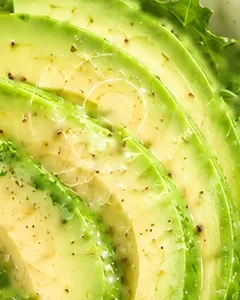
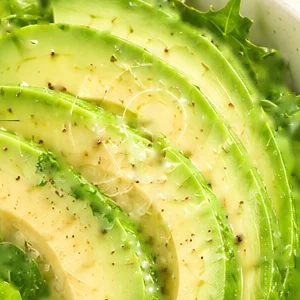
32c-i: from the walk on Kd's phone: the plate fills as meals come, day numbers whole, the week's bars lit
- Android kept a part's first cut-out under its name, so the plate stayed as it was before the
  next meal: each cut-out is named by how far its food reaches.
- Sharper chicken, quinoa and avocado, cut at their full size.
- On an opened folding phone a day's plate read "1" for 14: its number stays on one line.
- The Week tab's bars as drawn: rounded, lit from the top in their colour, glowing; the target's
  number at its line.

diff --git a/apps/mobile/src/screens/food/FoodWeek.tsx b/apps/mobile/src/screens/food/FoodWeek.tsx
@@ -4,7 +4,7 @@ import { foodWeekResponseSchema, type FoodWeekFigure, type FoodWeekResponse } fr
 import { Button } from "../../look/Button";
 import { Card } from "../../look/Card";
 import { Chip } from "../../look/Chip";
-import { colours, type ColourName } from "../../look/colours";
+import { colours, weekBarGlow, weekBarLight, type ColourName } from "../../look/colours";
 import { Icon } from "../../look/Icon";
 import { Txt } from "../../look/Txt";
 import { SoftBar } from "../../look/Waiting";
@@ -191,6 +191,14 @@ function barColour(bar: Bar): ColourName {
   return bar.band === null ? "textSoft" : BAND_COLOUR[bar.band];
 }
 
+/** A bar in its colour; the three judged colours lit from the top and glowing (32c-i). */
+function barLight(colour: ColourName) {
+  if (colour === "good" || colour === "blue" || colour === "orange") {
+    return { backgroundColor: colours[colour], experimental_backgroundImage: weekBarLight[colour], boxShadow: weekBarGlow[colour] };
+  }
+  return { backgroundColor: colours[colour] };
+}
+
 /** `line`: today's target, drawn once straight across the bars (null while there is none). */
 function Chart({ bars, figure, month, line }: { bars: readonly Bar[]; figure: FoodWeekFigure; month: boolean; line: number | null }) {
   const top = chartTop(bars);
@@ -207,12 +215,17 @@ function Chart({ bars, figure, month, line }: { bars: readonly Bar[]; figure: Fo
                     ~
                   </Txt>
                 ) : null}
-                <View style={[styles.bar, { height: height(bar.value), backgroundColor: colours[barColour(bar)] }]} />
+                <View style={[styles.bar, month ? styles.thinBar : null, barLight(barColour(bar)), { height: height(bar.value) }]} />
               </>
             )}
           </View>
         ))}
         {line === null ? null : <View pointerEvents="none" style={[styles.target, { bottom: height(line) }]} />}
+        {line === null ? null : (
+          <Txt kind="tiny" colour="textSoft" style={[styles.lineWords, { bottom: height(line) + 4 }]}>
+            {count(line)}
+          </Txt>
+        )}
       </View>
       <View style={styles.labels}>
         {bars.map((bar, i) => (
@@ -260,8 +273,10 @@ const styles = StyleSheet.create({
   // A date under a thin bar of the 30 days is wider than its bar, and is drawn across the bars beside it.
   date: { width: 32 },
   thin: { marginHorizontal: -2 },
-  bar: { borderTopLeftRadius: 6, borderTopRightRadius: 6 },
-  target: { position: "absolute", left: 0, right: 0, height: 2, borderRadius: 1, backgroundColor: colours.text },
+  bar: { marginHorizontal: 3, borderTopLeftRadius: 999, borderTopRightRadius: 999, borderBottomLeftRadius: 8, borderBottomRightRadius: 8 },
+  thinBar: { marginHorizontal: 0, borderTopLeftRadius: 4, borderTopRightRadius: 4, borderBottomLeftRadius: 2, borderBottomRightRadius: 2 },
+  target: { position: "absolute", left: 0, right: 0, height: 2, borderRadius: 1, backgroundColor: colours.textSoft },
+  lineWords: { position: "absolute", right: 0 },
   about: { textAlign: "center" },
   centre: { textAlign: "center" },
   legend: { flexDirection: "row", flexWrap: "wrap", columnGap: 14, rowGap: 6 },

diff --git a/apps/mobile/src/screens/food/MacroPlate.tsx b/apps/mobile/src/screens/food/MacroPlate.tsx
@@ -21,6 +21,10 @@ const HUB = 35;
 const INNER = 36;
 const OUTER = 82;
 
+/** A part's cut-out is named by how far its food reaches: Android keeps a cut-out's first shape under its
+ *  name, so a plate filled after it was first drawn would stay as it was (seen on Kd's phone, 32c-i). */
+const clipId = (part: string, plate: string, reach: number) => `${part}${plate}r${String(Math.round(reach * 10))}`;
+
 export interface PlateNumbers {
   kcal: number;
   proteinG: number;
@@ -52,11 +56,14 @@ export function MacroPlate({ goal, eaten, left }: { goal: PlateNumbers; eaten: P
                 <Stop offset="0" stopColor={colours.orangeLight} />
                 <Stop offset="1" stopColor={colours.calDeep} />
               </LinearGradient>
-              {PLATE_PARTS.map((p) => (
-                <ClipPath key={p.key} id={`${p.key}${id}`}>
-                  <Path d={partPath(C, C, p.from, p.from + PART_SWEEP, INNER, fillReach(plateShare(eaten?.[p.key] ?? null, goal[p.key]), INNER, OUTER))} />
-                </ClipPath>
-              ))}
+              {PLATE_PARTS.map((p) => {
+                const reach = fillReach(plateShare(eaten?.[p.key] ?? null, goal[p.key]), INNER, OUTER);
+                return (
+                  <ClipPath key={clipId(p.key, id, reach)} id={clipId(p.key, id, reach)}>
+                    <Path d={partPath(C, C, p.from, p.from + PART_SWEEP, INNER, reach)} />
+                  </ClipPath>
+                );
+              })}
             </Defs>
             <Circle cx={C} cy={C} r={C - 4} fill={`url(#rim${id})`} stroke={colours.plateEdge} strokeWidth={1} />
             <Path d={edgePath(C, C, 200, 290, 104)} stroke={colours.plateRimLight} strokeWidth={2} strokeLinecap="round" fill="none" />
@@ -84,7 +91,7 @@ export function MacroPlate({ goal, eaten, left }: { goal: PlateNumbers; eaten: P
                   <Path d={partPath(C, C, p.from, to, INNER, OUTER)} fill={colours.glass} stroke={colours[p.colour]} strokeOpacity={0.5} strokeWidth={1.2} strokeDasharray="3 3" />
                   {share > 0 ? (
                     <>
-                      <G clipPath={`url(#${p.key}${id})`}>
+                      <G clipPath={`url(#${clipId(p.key, id, reach)})`}>
                         <G transform={`translate(${String(C - OUTER)} ${String(C - OUTER)})`}>
                           <SvgImage href={pictures[p.picture]} width={OUTER * 2} height={OUTER * 2} preserveAspectRatio="xMidYMid slice" />
                         </G>

diff --git a/apps/mobile/src/look/colours.ts b/apps/mobile/src/look/colours.ts
@@ -133,6 +133,19 @@ export const lightGradient = `linear-gradient(to bottom, ${colours.light}, ${col
 export const signInGradient = `linear-gradient(to bottom, ${colours.signInTop}, ${colours.signInFoot})`;
 /** A chart's bar: light orange at its top running to orange at its foot (Progress, 35c-i). */
 export const barGradient = `linear-gradient(to bottom, ${colours.orangeLight}, ${colours.orange})`;
+/** The Week tab's bars (32c-i, Kd's drawing of 2026-11-14): each lit from its top in its own colour, and
+ *  glowing faintly: on target, under, over. */
+export const weekBarLight = {
+  good: `linear-gradient(to bottom, ${colours.goodText}, ${colours.good})`,
+  blue: "linear-gradient(to bottom, #93c5fd, #3b82f6)",
+  orange: `linear-gradient(to bottom, ${colours.orangeLight}, ${colours.orangeDeep})`,
+} as const;
+export const weekBarGlow = {
+  good: "0 0 14px rgba(34,197,94,0.35)",
+  blue: "0 0 14px rgba(96,165,250,0.35)",
+  orange: "0 0 14px rgba(255,138,31,0.4)",
+} as const;
+
 /** Across a box with a chalk drawing on its right: the box's own colour under the words, the drawing
  *  showing through on the right (Progress, 35c-i). */
 export const artShade =

diff --git a/apps/mobile/src/screens/food/DayPlates.tsx b/apps/mobile/src/screens/food/DayPlates.tsx
@@ -69,7 +69,7 @@ export function DayPlate({ date, size, bar, picked, later }: { date: number; siz
 function Number({ words, size, colour }: { words: string; size: number; colour: ColourName }) {
   return (
     <View style={[StyleSheet.absoluteFill, styles.centre]} pointerEvents="none">
-      <Txt colour={colour} style={[styles.date, { fontSize: size * 0.36, lineHeight: size * 0.46 }]}>
+      <Txt colour={colour} numberOfLines={1} fit style={[styles.date, { fontSize: size * 0.36, lineHeight: size * 0.46, maxWidth: size * 0.7 }]}>
         {words}
       </Txt>
     </View>
